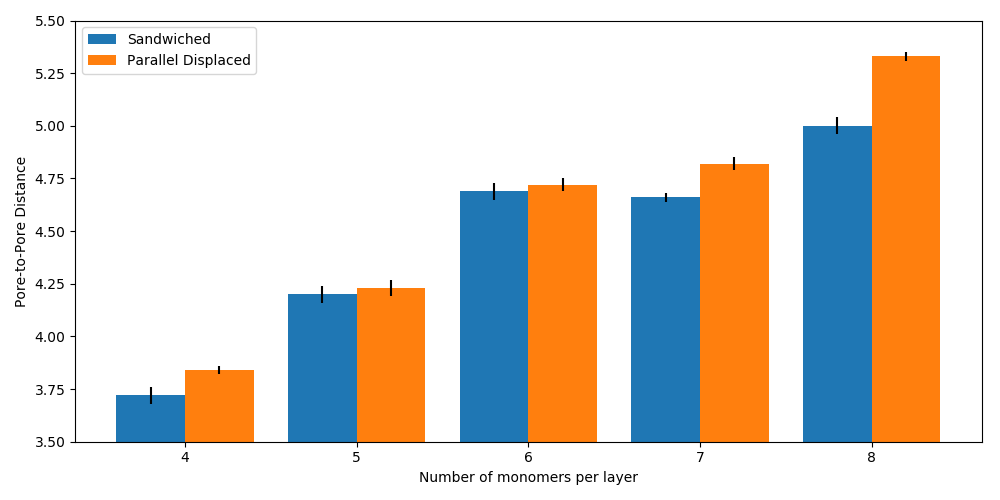
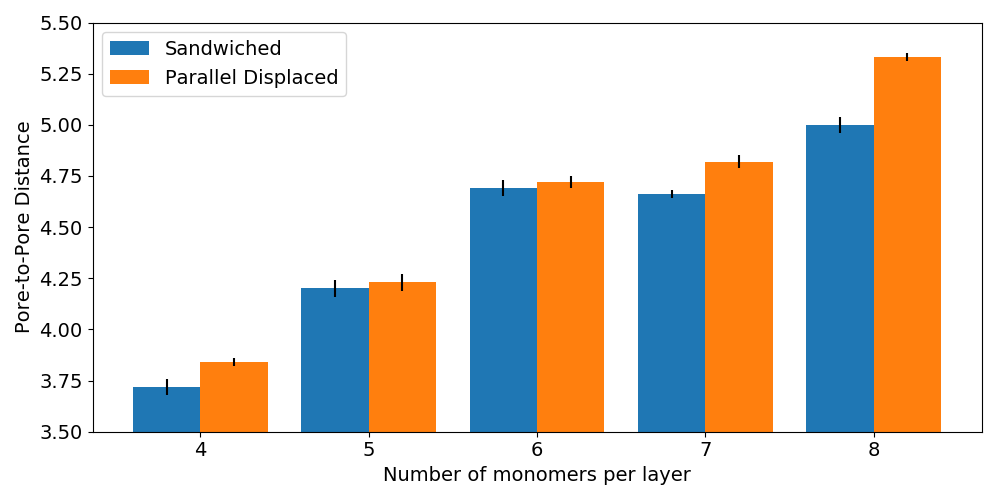
made fonts bigger

diff --git a/Ben_Manuscripts/structure_paper/figures/p2p_table.py b/Ben_Manuscripts/structure_paper/figures/p2p_table.py
@@ -20,10 +20,11 @@ plt.bar(pos, df['layered'], width, label=df['nmon'][0], yerr=df['layered_err'])
 plt.bar([p + width for p in pos], df['offset'], width, label=df['nmon'][1], yerr=df['offset_err'])
 
 ax.set_xticks([p + .5*width for p in pos])
-ax.set_xticklabels(df['nmon'])
-ax.set_ylabel('Pore-to-Pore Distance')
-ax.set_xlabel('Number of monomers per layer')
-plt.legend(['Sandwiched', 'Parallel Displaced'])
+ax.set_xticklabels(df['nmon'], fontsize=14)
+ax.set_ylabel('Pore-to-Pore Distance', fontsize=14)
+ax.set_xlabel('Number of monomers per layer', fontsize=14)
+plt.legend(['Sandwiched', 'Parallel Displaced'],fontsize=14)
+plt.tick_params(axis='both', labelsize=14)
 plt.ylim(3.5, 5.5)
 plt.tight_layout()
 plt.savefig('p2p.png')
